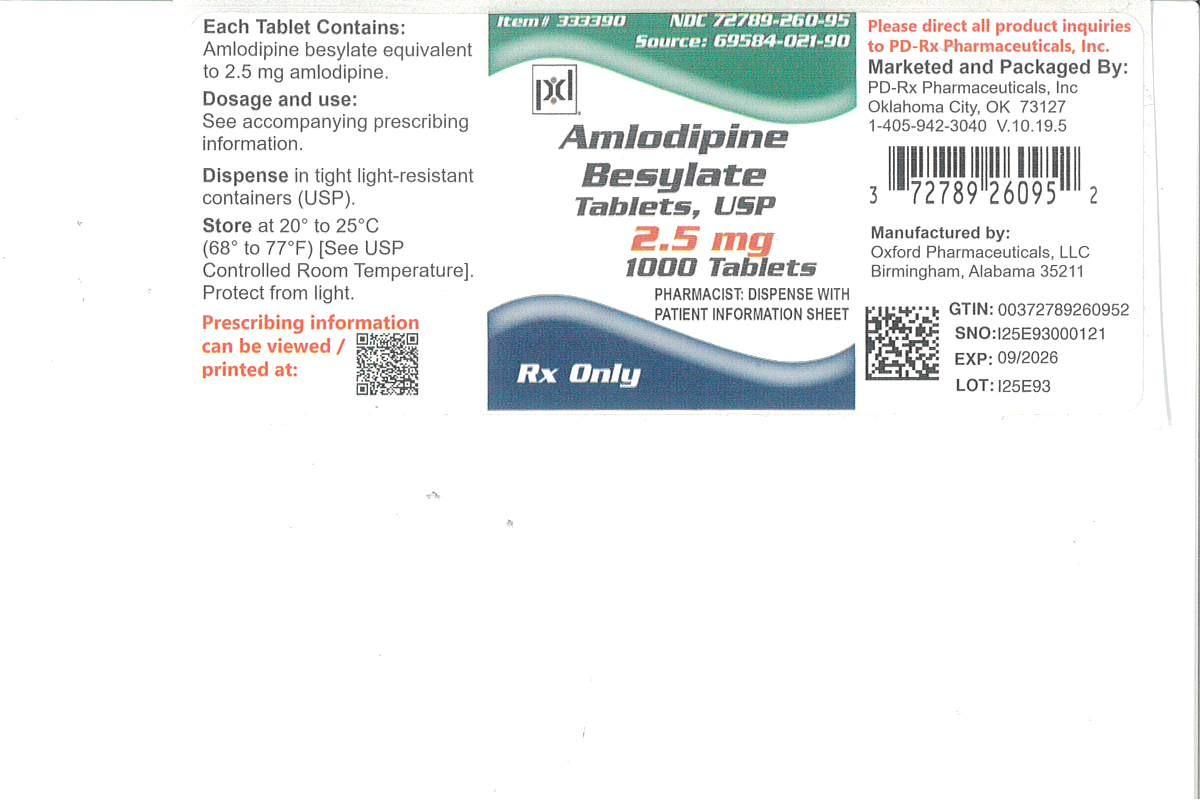
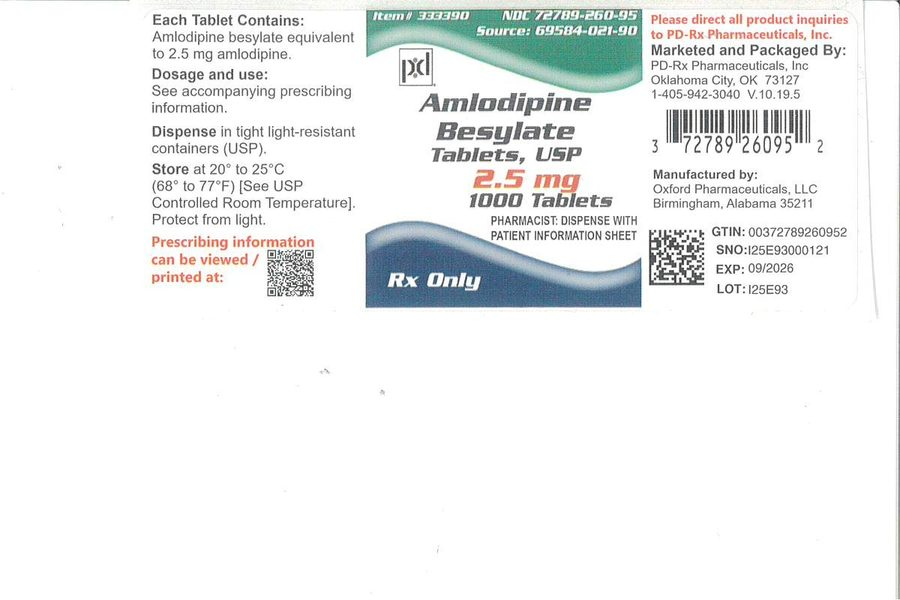
chore: compress amlodipine 2.5mg JPEG; sync IMAGE-SOURCES (Sua DailyMed notes)
Pantoprazole 40mg + amlodipine 2.5mg match strength (no 示意 caption).
DAFLON/DIFFLAM remain stand-ins with captions. Lightbox unchanged.

diff --git a/IMAGE-SOURCES.md b/IMAGE-SOURCES.md
@@ -6,11 +6,11 @@ Policy: prefer Wikimedia Commons / NIH public-domain / clearly CC-licensed image
 
 | Chinese name | Latin / product | Local file | Source URL | License / attribution | Fetched (Asia/Hong_Kong) |
 |---|---|---|---|---|---|
-| 護胃藥（泮托拉唑） | Pantoprazole Sodium **40 mg** delayed-release tablets carton (AHP) | `assets/meds/pantoprazole-40.jpg` | https://dailymed.nlm.nih.gov/dailymed/drugInfo.cfm?setid=5ff3cf6c-6f0a-4374-8b80-4e1eb1df6245 (image: `40 mg Pantoprazole DR Tablets Carton 5x10.jpg`) | **U.S. DailyMed / FDA labeling image** — public domain U.S. government work for personal reference. Replaced prior Commons 20 mg pill photo. | 2026-10-20 |
+| 護胃藥（泮托拉唑） | Pantoprazole Sodium **40 mg** delayed-release tablets carton (AHP) | `assets/meds/pantoprazole-40.jpg` | https://dailymed.nlm.nih.gov/dailymed/drugInfo.cfm?setid=5ff3cf6c-6f0a-4374-8b80-4e1eb1df6245 (image: `40 mg Pantoprazole DR Tablets Carton 10x10.jpg` (top panel cropped for live asset)) | **U.S. DailyMed / FDA labeling image** — public domain U.S. government work for personal reference. Replaced prior Commons 20 mg pill photo. | 2026-10-20 |
 | 安滅菌（抗生素） | Augmentin 1 g (GSK pack + blister) | `assets/meds/augmentin-1g.jpg` | https://commons.wikimedia.org/wiki/File:Augmentin_1_g_tbl.jpg | **CC BY-SA 4.0** — Tomino de WS. Direct file: https://upload.wikimedia.org/wikipedia/commons/9/97/Augmentin_1_g_tbl.jpg | 2026-10-20 |
 | 達芙琳 | **Stand-in:** Diohespan max 1000 mg (diosmin) — **not DAFLON brand** | `assets/meds/daflon-500.jpg` | https://commons.wikimedia.org/wiki/File:2023_Diohespan_max_1000_mg.jpg | **CC BY-SA 4.0** — Jacek Halicki. Same active class (diosmin / veinotonic); **replace with Justin’s own DAFLON 500 pack photo** when available. No free Commons DAFLON pack found. | 2026-10-20 |
 | 標靶藥（奧希替尼） | Tagrisso® (osimertinib) tablets **80 mg** — U.S. bottle label | `assets/meds/osimertinib-80.jpg` | https://dailymed.nlm.nih.gov/dailymed/image.cfm?setid=5e81b4a7-b971-45e1-9c31-29cea8c87ce7&name=image-09.jpg (SPL setid `5e81b4a7-b971-45e1-9c31-29cea8c87ce7`; drug page https://dailymed.nlm.nih.gov/dailymed/drugInfo.cfm?setid=5e81b4a7-b971-45e1-9c31-29cea8c87ce7) | **U.S. FDA DailyMed labeling image** (80 mg bottle label; NDC shown on art). Not a free CC photograph of a physical carton; trademarks remain with AstraZeneca. Prefer household 泰瑞沙 / Tagrisso pack photo (HK blister may differ). | 2026-10-20 |
-| 降血壓藥（氨氯地平） | Amlodipine Besylate Tablets **2.5 mg** bottle label (China Resources Saike) | `assets/meds/amlodipine-2-5.jpg` | https://dailymed.nlm.nih.gov/dailymed/drugInfo.cfm?setid=3518853a-4c5b-4161-a178-8da7f656f009 (image: `2.5mg90.jpg`) | **U.S. DailyMed / FDA labeling image** — public domain U.S. government work for personal reference. Replaced prior Apo-Amlo **5 mg** Commons pack. | 2026-10-20 |
+| 降血壓藥（氨氯地平） | Amlodipine Besylate Tablets **2.5 mg** bottle label (PD-Rx / Oxford) | `assets/meds/amlodipine-2-5.jpg` | https://dailymed.nlm.nih.gov/dailymed/image.cfm?setid=1080fcea-a5da-499d-a855-690c13559071&name=72789260.jpg (SPL setid `1080fcea-a5da-499d-a855-690c13559071`; drug page https://dailymed.nlm.nih.gov/dailymed/drugInfo.cfm?setid=1080fcea-a5da-499d-a855-690c13559071) | **U.S. FDA DailyMed labeling image** — strength **2.5 mg** (NDC 72789-260). Replaced Commons Apo-Amlo **5 mg** pack. Prefer household HK pack when available. | 2026-10-20 |
 | 抗乙肝藥（恩替卡韋） | Entecavir 0.5 mg (NorthStar bottle label from DailyMed) | `assets/meds/entecavir-0-5.jpg` | https://dailymed.nlm.nih.gov/dailymed/image.cfm?setid=da705339-c349-444f-a058-4f0cef2864bf&name=0pt5mg%20bottle%20label.jpg (SPL setid `da705339-c349-444f-a058-4f0cef2864bf`) | **U.S. FDA DailyMed labeling image** — used for personal reference. Product trademarks remain with rights holders; not a free Creative Commons photograph. Prefer swapping for household Baraclude / local pack photo. | 2026-10-20 |
 | 降膽固醇（辛伐他汀） | Simvastatin (assortment of generic tablets) | `assets/meds/simvastatin-5.jpg` | https://commons.wikimedia.org/wiki/File:Simvastatin_varieties.jpg | **CC BY-SA 4.0** — Whispyhistory. Tablet assortment, not a single branded 5 mg HK pack. | 2026-10-20 |
 | 止痛藥（服他寧） | Diclofenac / Voltaren tablets | `assets/meds/diclofenac-100.jpg` | https://commons.wikimedia.org/wiki/File:Voltaren_tablets.jpg | **Public domain** — Editor182 (own work released PD). | 2026-10-20 |
@@ -26,11 +26,11 @@ All 13 slots now use real JPEG photos (no SVG/PNG placeholders).
 
 | File | On disk | Verified against source |
 |---|---|---|
-| pantoprazole-40.jpg | JPEG ~600×600 (cropped) | DailyMed AHP 40 mg carton |
+| pantoprazole-40.jpg | JPEG 340×328 (top carton crop) | DailyMed AHP 40 mg carton 10×10 |
 | augmentin-1g.jpg | JPEG 4032×3016 | Exact MD5 match to Commons upload |
 | daflon-500.jpg | JPEG 4703×3208 | Exact MD5 match (Diohespan stand-in) |
 | osimertinib-80.jpg | JPEG 725×385 | DailyMed Tagrisso 80 mg bottle label (`image-09.jpg`) |
-| amlodipine-2-5.jpg | JPEG ~800×800 (letterboxed) | DailyMed 2.5 mg bottle label |
+| amlodipine-2-5.jpg | JPEG 900×600 (compressed) | DailyMed PD-Rx 2.5 mg bottle label (`72789260.jpg`) |
 | entecavir-0-5.jpg | JPEG 624×299 | Exact MD5 match to DailyMed bottle label |
 | simvastatin-5.jpg | JPEG 2876×2899 | Exact MD5 match |
 | diclofenac-100.jpg | JPEG 1241×1852 | Exact MD5 match |
@@ -74,3 +74,7 @@ Venues tried: Openverse API (little usable for these brand names), Wikimedia Com
 - **Replaced:** `amlodipine-2-5.jpg` ← DailyMed **2.5 mg** bottle label (was Apo-Amlo 5 mg).
 - **Still stand-in (no free brand pack found):** `daflon-500.jpg` (Diohespan), `difflam-mouthwash.jpg` (generic benzydamine). Keep on-page caption「示意／請對照家中藥盒」; prefer Justin’s household DAFLON / 特快靈 photos.
 
+
+### Candidate archive
+Full hunt log + rejected files: `assets/meds/_candidates/CANDIDATES.md`  
+Assist note for Jessie: `NOTE-FOR-JESSIE.md`
